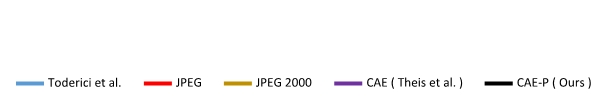
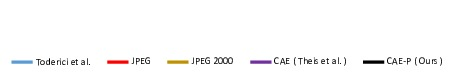
update README

Changed region(s): [[0.0, 0.7778, 0.7726, 0.9167], [0.8035, 0.7778, 0.989, 0.9167]]

diff --git a/README.md b/README.md
@@ -15,11 +15,11 @@ We introduce CAE-ADMM (ADMM-pruned compressive autoencoder), a lossy image compr
 ![Model Architecture](https://raw.github.com/JasonZHM/CAE-ADMM/master/experiments/fig/model_new.jpg)
 
 ## Performance
-![](https://raw.github.com/JasonZHM/CAE-ADMM/master/experiments/fig/legend.jpg)
+![](https://raw.github.com/JasonZHM/CAE-ADMM/master/experiments/fig/legend-new.jpg)
 ![](https://raw.github.com/JasonZHM/CAE-ADMM/master/experiments/fig/ssim.jpg) ![](https://raw.github.com/JasonZHM/CAE-ADMM/master/experiments/fig/msssim.jpg)
 
 ## Example
-![bpp 0.3](https://raw.github.com/JasonZHM/CAE-ADMM/master/experiments/fig/compare_0.3.jpg)
+![bpp 0.3](https://raw.github.com/JasonZHM/CAE-ADMM/master/experiments/fig/compare_03-new.jpg)
 
 ## Acknowledgement
 pytorch-msssim: Implementation of MS-SSIM in PyTorch is from [pytorch-msssim]( https://github.com/jorge-pessoa/pytorch-msssim)
